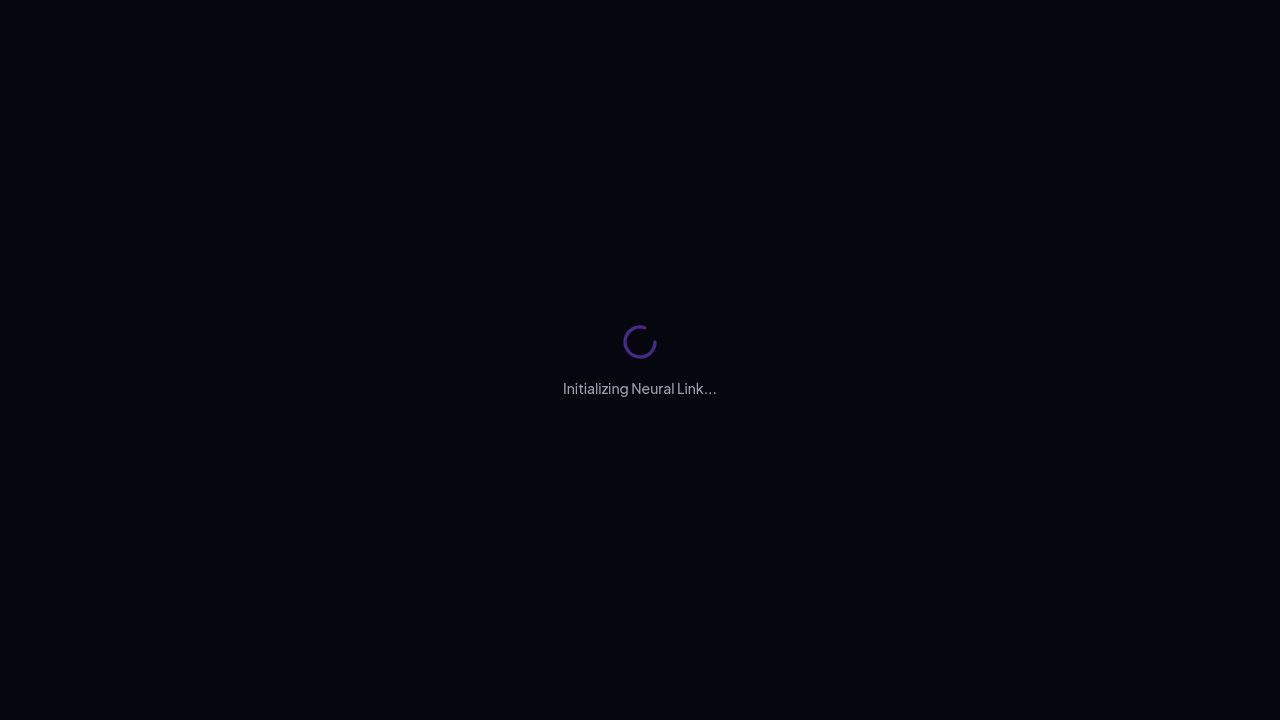
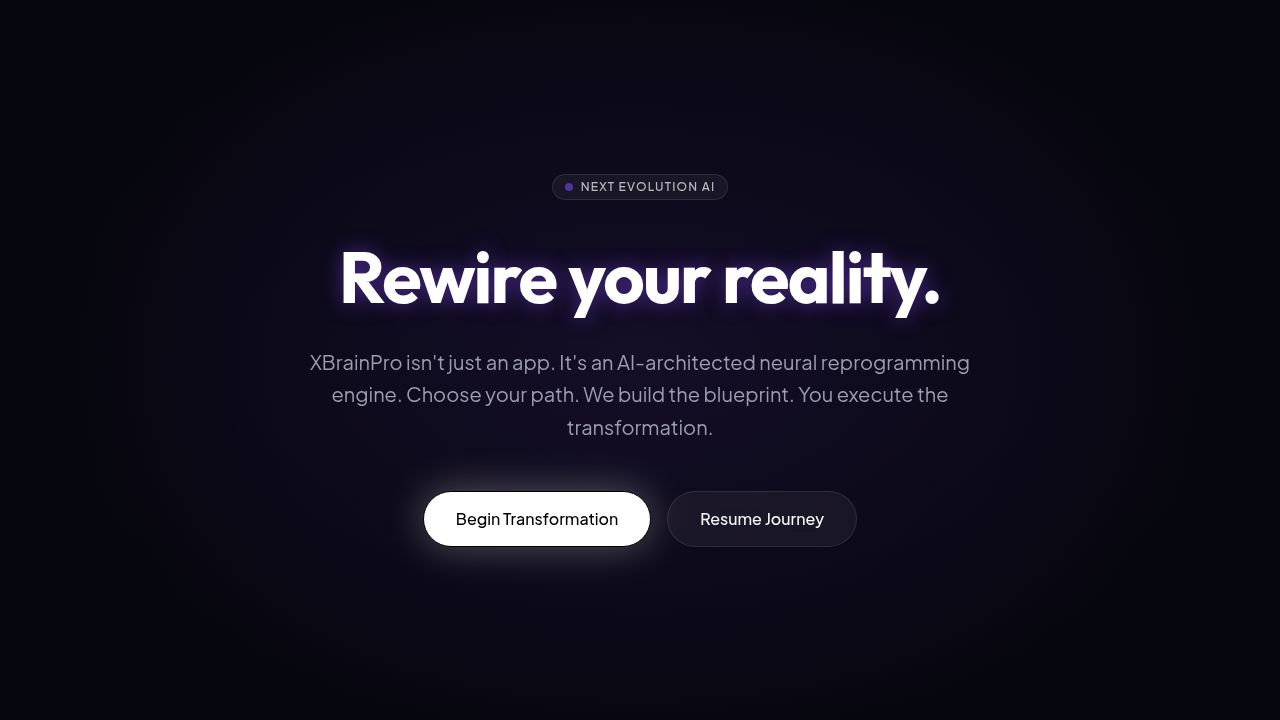
Game-style resource download screen for Neura City
User asked for a game-like "downloading resources/map" step at app launch.

- New game/resources.ts: downloads all bundled 3D assets (20 world models,
  3 textures, 9 avatar GLBs; deduped) via expo-asset downloadAsync with a
  6-way concurrency cap and per-asset progress callbacks; failures are
  tolerated (drei loaders fetch on demand), so it never blocks entry.
- app/index.tsx loader now shows a real progress bar ("Downloading city
  resources… N/M"), then "Entering the Plaza district…" once downloads
  settle; loader still dismisses on scene ready as before.
- Added expo-asset@~12.0.13 as an explicit dependency of the mobile package.

Also (earlier this session): pushed latest code incl. .agents/memory to
GitHub main (old diverged July-3 commits preserved on backup-main-20260703),
and provided account-migration instructions.

Verified: typecheck clean, architect review passed (applied its concurrency
cap + dedupe suggestions), preview screenshot shows the progress loader and
the app boots past it.

Changed region(s): [[0.25, 0.3361, 0.7812, 0.6111], [0.3125, 0.6417, 0.6875, 0.7944], [0.4062, 0.2444, 0.5938, 0.275]]

diff --git a/artifacts/xbrainpro-mobile/app/index.tsx b/artifacts/xbrainpro-mobile/app/index.tsx
@@ -23,6 +23,10 @@ import {
 import GameCanvas from "@/game/GameCanvas";
 import { game, resetInput } from "@/game/store";
 import {
+  downloadResources,
+  type ResourceProgress,
+} from "@/game/resources";
+import {
   DEFAULT_MAP,
   loadWorldMap,
   setActiveWorldMap,
@@ -40,8 +44,26 @@ export default function NeuraCity() {
   const [avatarId, setAvatarId] = useState(DEFAULT_AVATAR_ID);
   const [pickingAvatar, setPickingAvatar] = useState(false);
   const [worldMap, setWorldMap] = useState<ParsedWorldMap>(DEFAULT_MAP);
+  const [resProgress, setResProgress] = useState<ResourceProgress>({
+    done: 0,
+    total: 1,
+  });
+  const [resourcesDone, setResourcesDone] = useState(false);
 
   const userPickedAvatar = useRef(false);
+
+  // Game-style resource download step with real progress.
+  useEffect(() => {
+    let cancelled = false;
+    downloadResources((p) => {
+      if (!cancelled) setResProgress(p);
+    }).finally(() => {
+      if (!cancelled) setResourcesDone(true);
+    });
+    return () => {
+      cancelled = true;
+    };
+  }, []);
 
   useEffect(() => {
     let cancelled = false;
@@ -152,11 +174,34 @@ export default function NeuraCity() {
         <View style={styles.loader}>
           <Text style={styles.loaderSpark}>✦</Text>
           <Text style={styles.loaderTitle}>NEURA CITY</Text>
-          <Text style={styles.loaderSub}>Entering the Plaza district…</Text>
-          <ActivityIndicator
-            color={colors.dark.primary}
-            style={{ marginTop: 24 }}
-          />
+          <Text style={styles.loaderSub}>
+            {resourcesDone
+              ? "Entering the Plaza district…"
+              : "Downloading city resources…"}
+          </Text>
+          <View style={styles.progressTrack}>
+            <View
+              style={[
+                styles.progressFill,
+                {
+                  width: `${Math.round(
+                    (resProgress.done / Math.max(resProgress.total, 1)) * 100,
+                  )}%` as `${number}%`,
+                },
+              ]}
+            />
+          </View>
+          <Text style={styles.progressLabel}>
+            {resourcesDone
+              ? "Ready"
+              : `${resProgress.done} / ${resProgress.total}`}
+          </Text>
+          {resourcesDone && (
+            <ActivityIndicator
+              color={colors.dark.primary}
+              style={{ marginTop: 16 }}
+            />
+          )}
         </View>
       )}
     </View>
@@ -200,6 +245,25 @@ const styles = StyleSheet.create({
     fontSize: 14,
     color: colors.dark.mutedForeground,
     marginTop: 8,
+  },
+  progressTrack: {
+    width: 220,
+    height: 6,
+    borderRadius: 3,
+    backgroundColor: "rgba(255,255,255,0.12)",
+    marginTop: 24,
+    overflow: "hidden",
+  },
+  progressFill: {
+    height: "100%",
+    borderRadius: 3,
+    backgroundColor: colors.dark.primary,
+  },
+  progressLabel: {
+    fontFamily: fonts.medium,
+    fontSize: 12,
+    color: colors.dark.mutedForeground,
+    marginTop: 10,
   },
   glFallback: {
     flex: 1,

diff --git a/artifacts/xbrainpro-mobile/game/resources.ts b/artifacts/xbrainpro-mobile/game/resources.ts
@@ -1,0 +1,54 @@
+import { Asset } from "expo-asset";
+
+import { AVATARS } from "@/game/avatar";
+import { MODEL_SOURCES, TEXTURE_SOURCES } from "@/game/models";
+
+/**
+ * Every bundled 3D/texture asset the world needs. Downloading these up front
+ * (into the platform asset cache) lets the loading screen show real progress
+ * like a game "downloading resources" step, and makes the scene pop in fast
+ * because drei's loaders hit warm caches.
+ */
+const RESOURCE_MODULES: number[] = [
+  ...new Set<number>([
+    ...(Object.values(MODEL_SOURCES) as number[]),
+    ...(Object.values(TEXTURE_SOURCES) as number[]),
+    ...AVATARS.map((a) => a.src),
+  ]),
+];
+
+/** Parallel download limit — keeps startup smooth on weak devices/networks. */
+const CONCURRENCY = 6;
+
+export type ResourceProgress = { done: number; total: number };
+
+/**
+ * Download all world resources, reporting progress after each asset.
+ * Individual failures are tolerated (the scene loaders will retry on demand),
+ * so this never throws and never blocks entry into the city.
+ */
+export async function downloadResources(
+  onProgress: (progress: ResourceProgress) => void,
+): Promise<void> {
+  const queue = [...RESOURCE_MODULES];
+  const total = queue.length;
+  let done = 0;
+  onProgress({ done, total });
+
+  async function worker(): Promise<void> {
+    for (let mod = queue.shift(); mod !== undefined; mod = queue.shift()) {
+      try {
+        await Asset.fromModule(mod).downloadAsync();
+      } catch {
+        // Tolerated: drei loaders fetch on demand as a fallback.
+      } finally {
+        done += 1;
+        onProgress({ done, total });
+      }
+    }
+  }
+
+  await Promise.all(
+    Array.from({ length: Math.min(CONCURRENCY, total) }, () => worker()),
+  );
+}